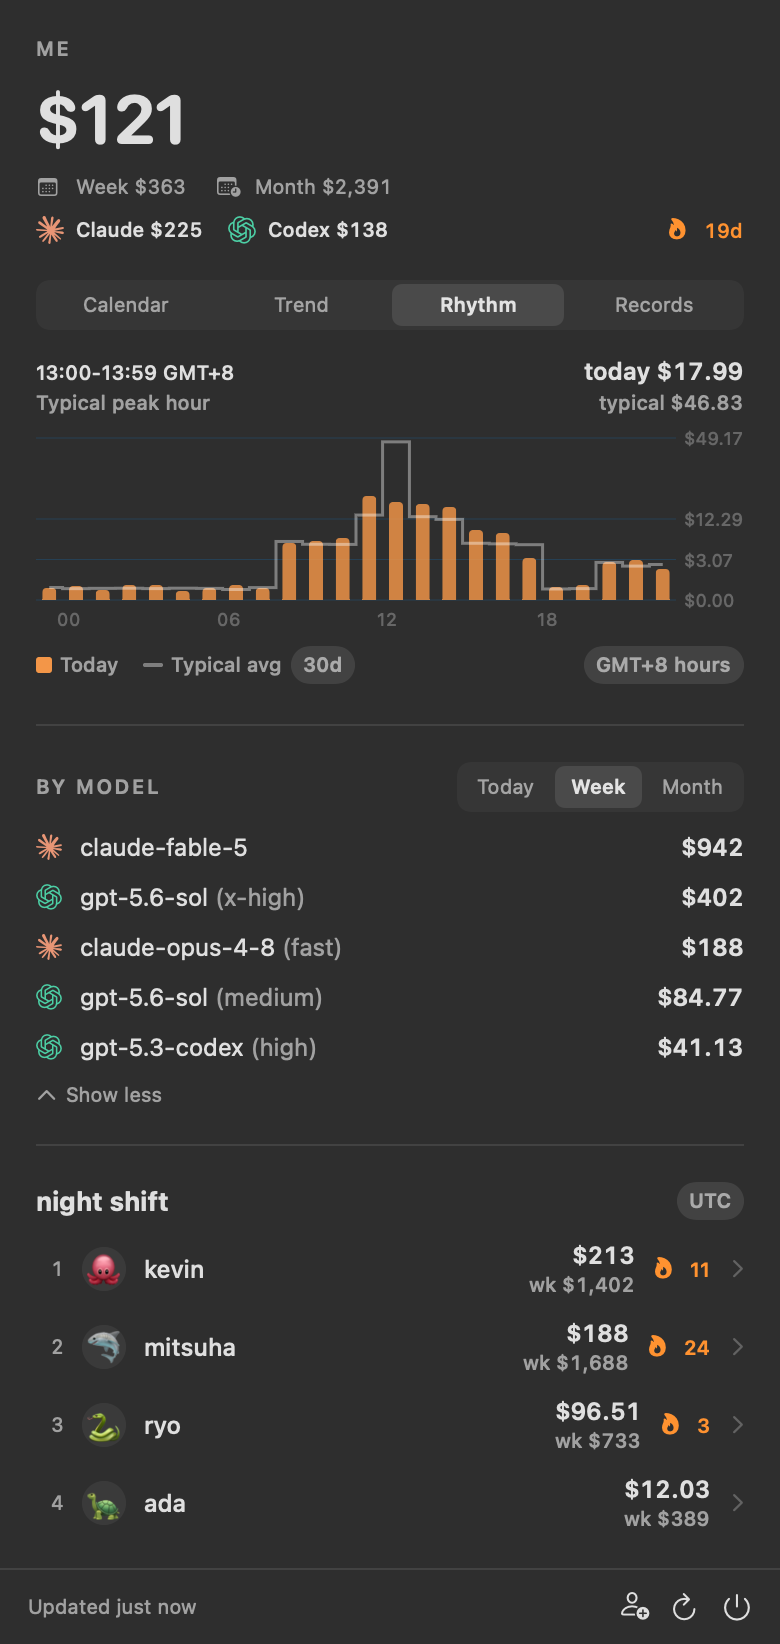
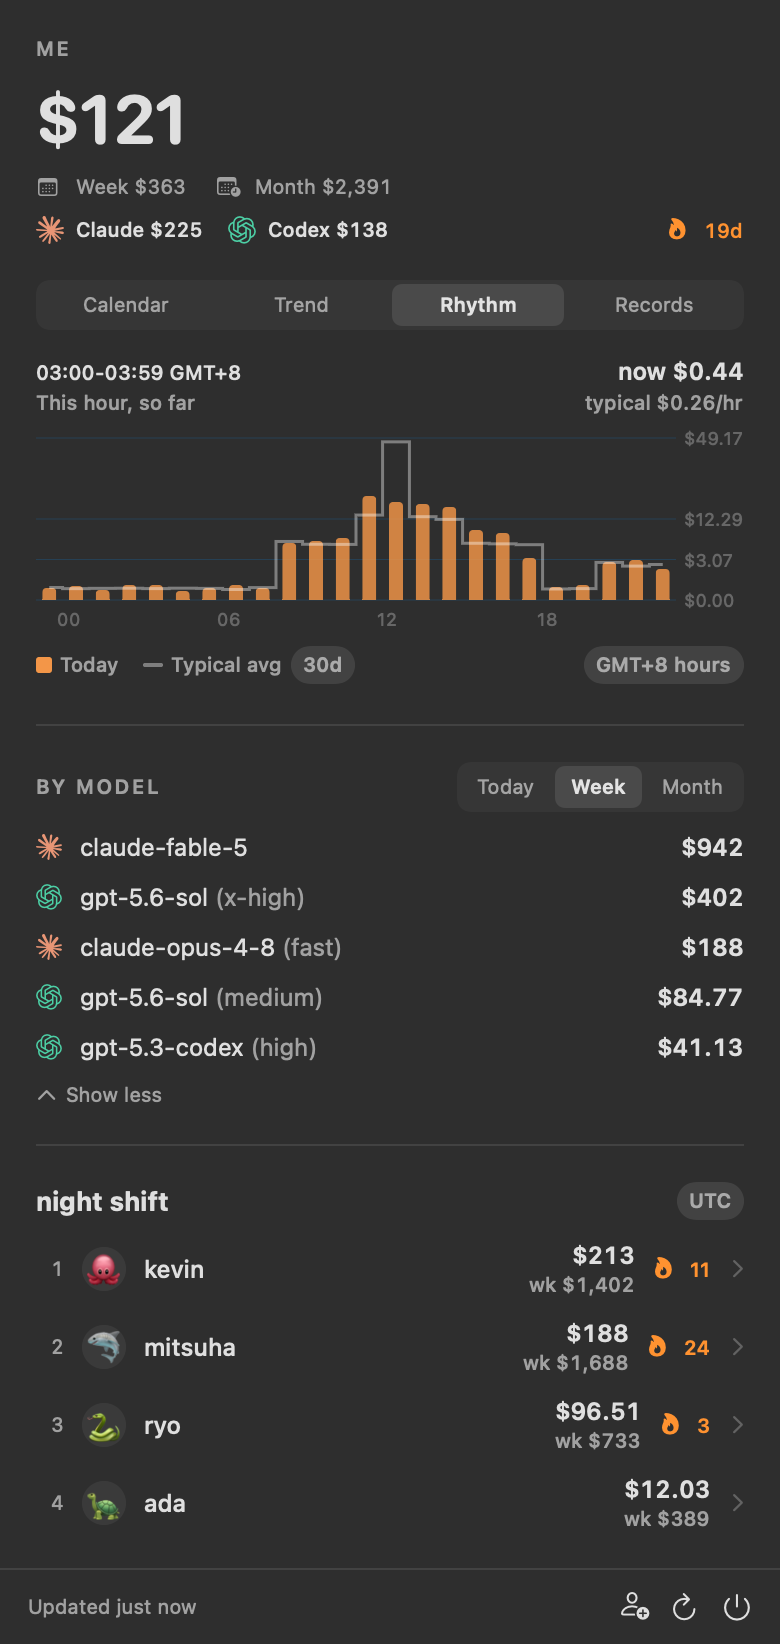
fix(app): anchor the rhythm readout to now and clarify record badges
The rhythm chart's idle readout showed the typical peak hour with
'today $0.00', which read as broken when that hour hadn't happened
yet. It now shows the current hour ('This hour, so far / now $X'
against 'typical $Y/hr') and only switches on hover. PR NOW becomes
SET TODAY on hour/day records and ONGOING on the streak. The Claude
scanner also picks up effort fields (usage.effort, reasoning_effort,
effort_level) if Claude Code ever starts logging them; today its
transcripts only carry usage.speed.

Changed region(s): [[0.0308, 0.2172, 0.3077, 0.2482], [0.7385, 0.2172, 0.9538, 0.2482]]

diff --git a/app/Sources/BrrrnBar/BurnCharts.swift b/app/Sources/BrrrnBar/BurnCharts.swift
@@ -191,25 +191,33 @@ struct BurnRhythmChart: View {
         }
     }
 
-    private var shownHour: Int? {
-        if let selectedHour { return selectedHour }
-        return rhythm.peakTypicalHour
+    /// The hour of day right now, on the chart's clock. Anchoring the idle
+    /// readout to the present ("this hour, so far") reads naturally; the old
+    /// default (typical peak hour with today often $0) looked broken.
+    private var currentHour: Int {
+        BurnAnalytics.calendar(in: timeZone).component(.hour, from: Date())
+    }
+
+    private var shownHour: Int {
+        selectedHour ?? currentHour
     }
 
     private var readout: some View {
-        HStack(alignment: .firstTextBaseline) {
+        let hour = shownHour
+        let isNow = selectedHour == nil || selectedHour == currentHour
+        return HStack(alignment: .firstTextBaseline) {
             VStack(alignment: .leading, spacing: 2) {
-                Text(shownHour.map { String(format: "%02d:00-%02d:59 \(zoneLabel)", $0, $0) } ?? "No data")
+                Text(String(format: "%02d:00-%02d:59 \(zoneLabel)", hour, hour))
                     .font(.caption.weight(.medium))
-                Text(selectedHour == nil ? "Typical peak hour" : "Hovered hour")
+                Text(isNow ? "This hour, so far" : "Hovered hour")
                     .font(.caption2)
                     .foregroundStyle(.secondary)
             }
             Spacer(minLength: 8)
             VStack(alignment: .trailing, spacing: 2) {
-                Text("today \(Format.money(shownHour.map { rhythm.todayByHour[$0] } ?? 0))")
+                Text("\(isNow ? "now" : "today") \(Format.money(rhythm.todayByHour[hour]))")
                     .font(.callout.weight(.semibold))
-                Text("typical \(Format.money(shownHour.map { rhythm.typicalByHour[$0] } ?? 0))")
+                Text("typical \(Format.money(rhythm.typicalByHour[hour]))/hr")
                     .font(.caption2)
                     .foregroundStyle(.secondary)
             }

diff --git a/app/Sources/BrrrnBar/BrrrnMenuView.swift b/app/Sources/BrrrnBar/BrrrnMenuView.swift
@@ -228,7 +228,7 @@ private struct RecordsView: View {
                         value: Format.money(hour.costUSD),
                         detail: Format.monthDayHour(hour.date, in: .current)
                             + " \(Format.timeZoneLabel(.current))",
-                        isCurrent: hour.isCurrent
+                        badge: hour.isCurrent ? "SET TODAY" : nil
                     )
                 }
                 if let day = records.bestDay {
@@ -237,7 +237,7 @@ private struct RecordsView: View {
                         title: "Biggest day",
                         value: Format.money(day.costUSD),
                         detail: Format.utcMonthDay(day.date) + " UTC",
-                        isCurrent: day.isCurrent
+                        badge: day.isCurrent ? "SET TODAY" : nil
                     )
                 }
                 if records.longestStreakDays > 0 {
@@ -250,7 +250,7 @@ private struct RecordsView: View {
                                 ? "still going"
                                 : "ended \(Format.utcMonthDay($0)) UTC"
                         } ?? "",
-                        isCurrent: records.longestStreakIsCurrent
+                        badge: records.longestStreakIsCurrent ? "ONGOING" : nil
                     )
                 }
                 Text("Day and streak records use UTC days, the same clock the pit board ranks on.")
@@ -266,7 +266,8 @@ private struct RecordRow: View {
     let title: String
     let value: String
     let detail: String
-    let isCurrent: Bool
+    /// "SET TODAY" / "ONGOING" when the record is being made right now.
+    var badge: String?
 
     var body: some View {
         HStack(spacing: 9) {
@@ -282,8 +283,8 @@ private struct RecordRow: View {
                     .foregroundStyle(.secondary)
             }
             Spacer(minLength: 8)
-            if isCurrent {
-                Text("PR NOW")
+            if let badge {
+                Text(badge)
                     .font(.caption2.weight(.bold))
                     .foregroundStyle(.orange)
                     .padding(.horizontal, 6)
@@ -295,7 +296,7 @@ private struct RecordRow: View {
                 .monospacedDigit()
         }
         .accessibilityElement(children: .combine)
-        .accessibilityLabel("\(title), \(value), \(detail)\(isCurrent ? ", record in progress" : "")")
+        .accessibilityLabel("\(title), \(value), \(detail)\(badge.map { ", \($0.lowercased())" } ?? "")")
     }
 }
 

diff --git a/src/claude.rs b/src/claude.rs
@@ -101,12 +101,25 @@ pub fn scan_file(
 
         claimed.push(hash);
         local_claims.insert(hash);
+        // Claude Code transcripts record `usage.speed` today; reasoning
+        // effort is not written to session logs (unlike Codex). If a future
+        // version starts logging it, pick it up without a release.
+        let effort = usage["effort"]
+            .as_str()
+            .or_else(|| usage["reasoning_effort"].as_str())
+            .or_else(|| msg["effort_level"].as_str());
+        let speed = usage["speed"].as_str().unwrap_or("standard");
+        let variant = match effort {
+            Some(effort) if speed == "standard" => effort.to_string(),
+            Some(effort) => format!("{speed} {effort}"),
+            None => speed.to_string(),
+        };
         entries.push(Entry {
             date,
             hour,
             source: Source::Claude,
             model: model.to_string(),
-            speed: usage["speed"].as_str().unwrap_or("standard").to_string(),
+            speed: variant,
             usage: u,
         });
     }
@@ -181,6 +194,20 @@ mod tests {
         // flat cache_creation_input_tokens lands in the 5m bucket
         assert_eq!(e2.usage.cache_w5m, 30);
         assert_eq!(e2.usage.cache_w1h, 0);
+    }
+
+    #[test]
+    fn future_effort_fields_flow_into_the_variant() {
+        let content = [
+            msg_line("e1", "r1", "claude-fable-5", r#","effort":"high""#),
+            msg_line("e2", "r2", "claude-fable-5", r#","speed":"fast","reasoning_effort":"max""#),
+        ]
+        .join("\n");
+        let path = fixture("effort.jsonl", &content);
+
+        let (entries, _, _, _) = scan_file(&path, &mut HashSet::new(), true);
+        assert_eq!(entries[0].speed, "high");
+        assert_eq!(entries[1].speed, "fast max");
     }
 
     #[test]